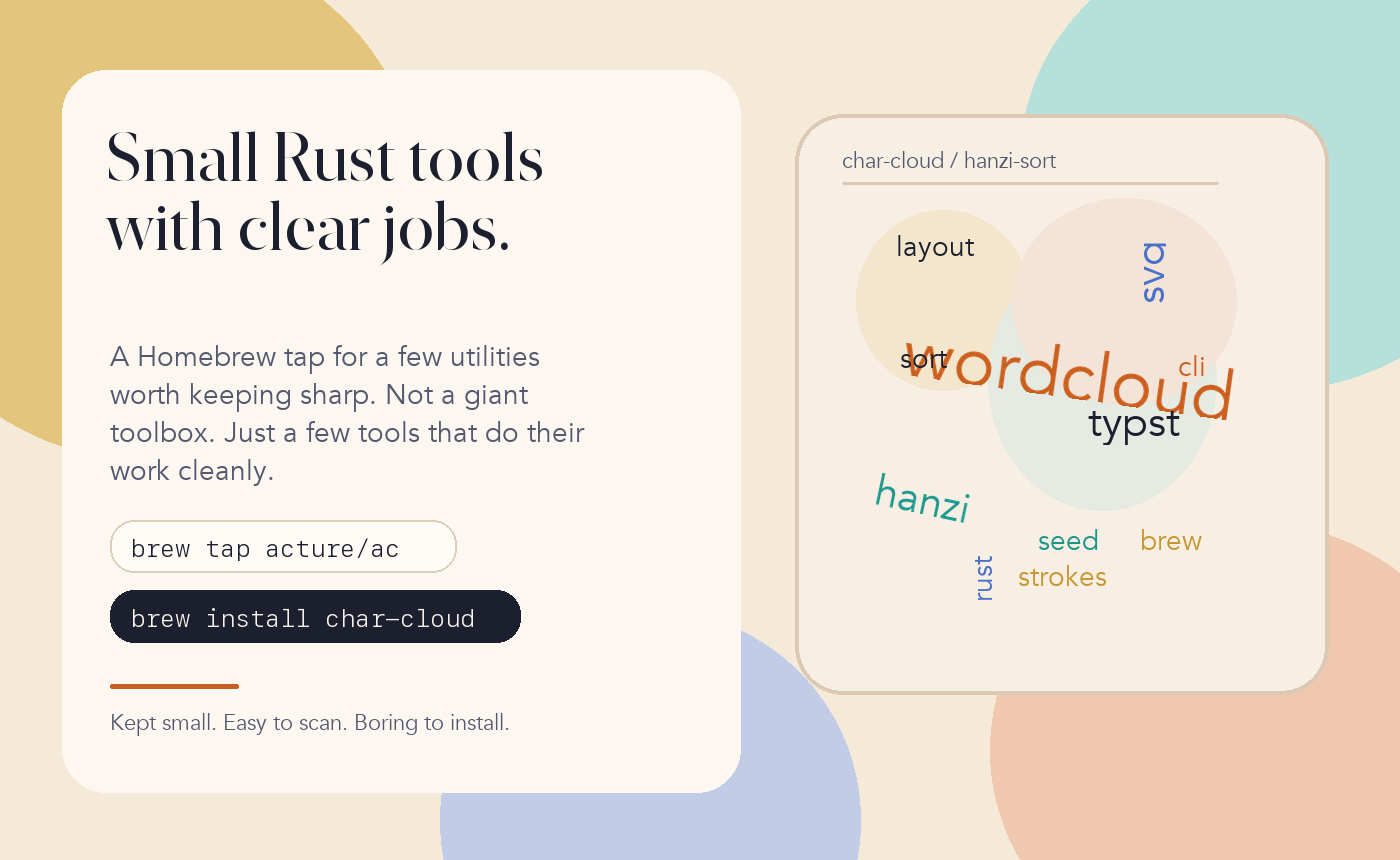
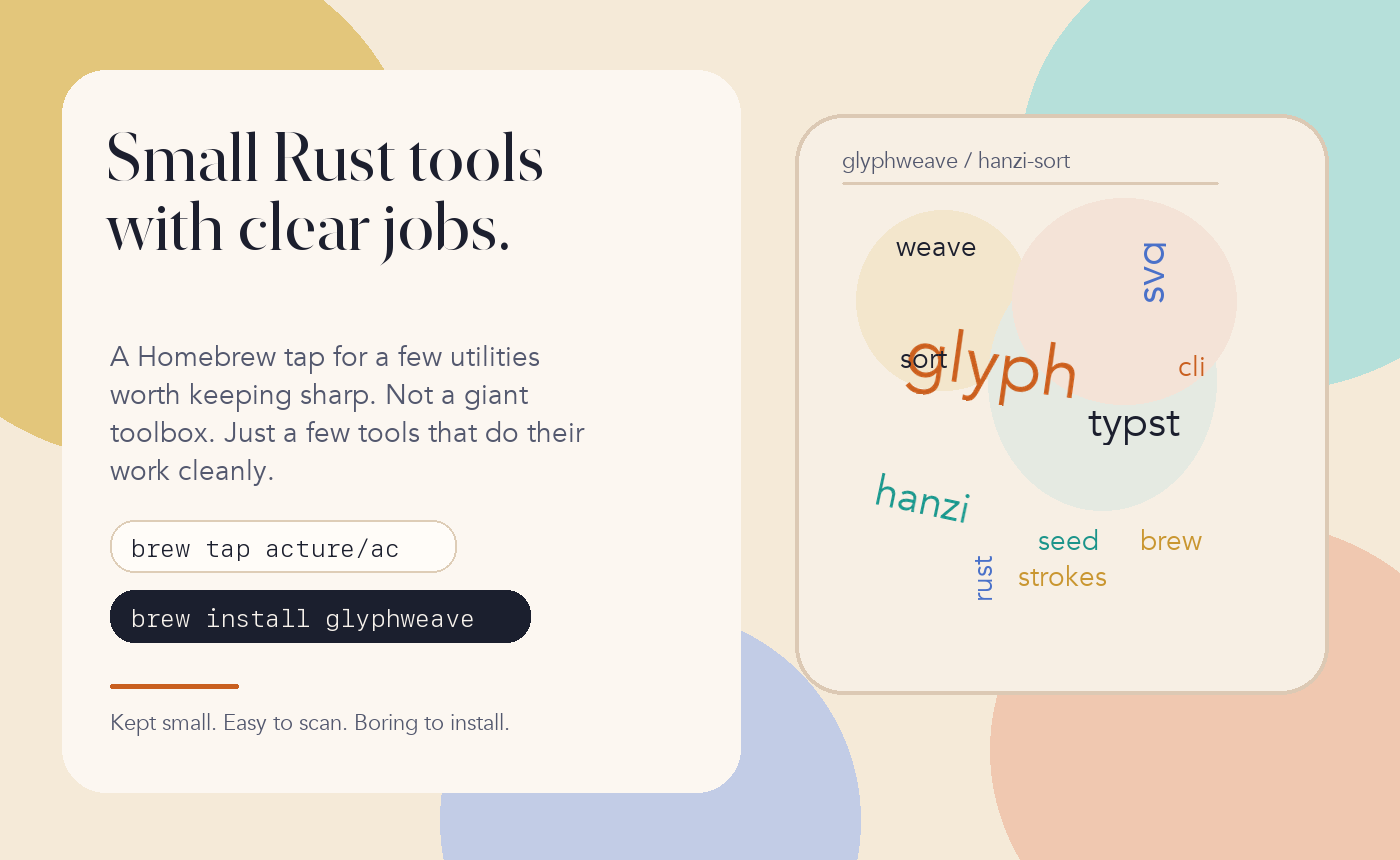
feat: rename char-cloud formula to glyphweave

diff --git a/scripts/render_social_preview.py b/scripts/render_social_preview.py
@@ -136,13 +136,13 @@ def make_hero_preview() -> Path:
     draw.rounded_rectangle((110, 520, 456, 572), radius=24, fill=(255, 252, 248, 235), outline=(222, 205, 183, 255), width=2)
     draw.text((130, 532), "brew tap acture/ac", font=mono_font, fill=ink)
 
-    draw.rounded_rectangle((110, 590, 520, 642), radius=24, fill=(27, 31, 46), outline=(27, 31, 46))
-    draw.text((130, 602), "brew install char-cloud", font=mono_font, fill=(247, 242, 236))
+    draw.rounded_rectangle((110, 590, 530, 642), radius=24, fill=(27, 31, 46), outline=(27, 31, 46))
+    draw.text((130, 602), "brew install glyphweave", font=mono_font, fill=(247, 242, 236))
 
     draw.rounded_rectangle((110, 684, 238, 688), radius=2, fill=orange)
     draw.text((110, 708), "Kept small. Easy to scan. Boring to install.", font=body_font, fill=muted)
 
-    draw.text((842, 146), "char-cloud / hanzi-sort", font=label_font, fill=muted)
+    draw.text((842, 146), "glyphweave / hanzi-sort", font=label_font, fill=muted)
     draw.rounded_rectangle((842, 182, 1218, 184), radius=1, fill=(220, 201, 180, 255))
 
     cloud = Image.new("RGBA", img.size, (0, 0, 0, 0))
@@ -152,9 +152,9 @@ def make_hero_preview() -> Path:
     cloud_draw.ellipse((1012, 198, 1236, 404), fill=(242, 216, 203, 130))
     img.alpha_composite(cloud)
 
-    draw_rotated_word(img, "wordcloud", (892, 302), word_large, orange + (255,), -8)
+    draw_rotated_word(img, "glyph", (892, 302), word_large, orange + (255,), -8)
     draw_rotated_word(img, "svg", (1120, 232), word_med, sky + (255,), 90)
-    draw_rotated_word(img, "layout", (888, 226), word_small, ink + (255,), 0)
+    draw_rotated_word(img, "weave", (888, 226), word_small, ink + (255,), 0)
     draw_rotated_word(img, "seed", (1030, 520), word_small, teal + (255,), 0)
     draw_rotated_word(img, "cli", (1170, 346), word_small, orange + (255,), 0)
     draw_rotated_word(img, "typst", (1080, 392), word_med, ink + (255,), 0)
@@ -204,7 +204,7 @@ def make_social_preview() -> Path:
     draw.rounded_rectangle((92, 446, 408, 494), radius=22, fill=(255, 251, 246, 225), outline=(223, 206, 185, 255), width=2)
     draw.text((112, 458), "brew tap acture/ac", font=mono_font, fill=ink)
 
-    draw.text((784, 122), "char-cloud / hanzi-sort", font=label_font, fill=muted)
+    draw.text((784, 122), "glyphweave / hanzi-sort", font=label_font, fill=muted)
     draw.rounded_rectangle((784, 156, 1138, 158), radius=1, fill=(217, 196, 171, 255))
 
     cloud = Image.new("RGBA", img.size, (0, 0, 0, 0))
@@ -214,8 +214,9 @@ def make_social_preview() -> Path:
     cloud_draw.ellipse((976, 184, 1184, 392), fill=(239, 214, 201, 128))
     img.alpha_composite(cloud)
 
-    draw_rotated_word(img, "wordcloud", (846, 262), word_large, orange + (255,), -8)
+    draw_rotated_word(img, "glyph", (846, 262), word_large, orange + (255,), -8)
     draw_rotated_word(img, "svg", (1035, 200), word_med, sky + (255,), 90)
+    draw_rotated_word(img, "weave", (980, 330), word_small, ink + (255,), 0)
     draw_rotated_word(img, "hanzi", (836, 372), word_med, teal + (255,), -13)
     draw_rotated_word(img, "typst", (1026, 332), word_med, ink + (255,), 0)
     draw_rotated_word(img, "strokes", (1032, 476), word_small, gold + (255,), 0)

diff --git a/Formula/glyphweave.rb b/Formula/glyphweave.rb
@@ -1,8 +1,8 @@
-class CharCloud < Formula
-  desc "Generate dense SVG word clouds that fit a target shape"
-  homepage "https://github.com/Acture/char-cloud"
-  url "https://github.com/Acture/char-cloud/archive/refs/tags/v0.2.0.tar.gz"
[1 lines of base64/hex data omitted]
+class Glyphweave < Formula
+  desc "Generate shape-constrained SVG word clouds"
+  homepage "https://github.com/Acture/glyphweave"
+  url "https://github.com/Acture/glyphweave/archive/refs/tags/v0.2.0.tar.gz"
[1 lines of base64/hex data omitted]
   license "AGPL-3.0-only"
 
   livecheck do
@@ -14,6 +14,12 @@ class CharCloud < Formula
 
   def install
     system "cargo", "install", *std_cargo_args
+
+    legacy_binary = bin/"char-cloud"
+    # v0.2.0 still installs the old executable name from the tagged source.
+    if legacy_binary.exist? && !(bin/"glyphweave").exist?
+      legacy_binary.rename bin/"glyphweave"
+    end
   end
 
   test do
@@ -25,12 +31,12 @@ class CharCloud < Formula
       "/usr/share/fonts/opentype/noto/NotoSansSC-Regular.otf",
       "/usr/share/fonts/truetype/dejavu/DejaVuSans.ttf",
     ].find { |path| File.exist?(path) }
-    assert font, "No suitable system font found for char-cloud test"
+    assert font, "No suitable system font found for glyphweave test"
 
     (testpath/"words.txt").write("cloud,3\nsvg,2\nlayout\n")
     output = testpath/"out.svg"
 
-    system bin/"char-cloud", "--text", "AI",
+    system bin/"glyphweave", "--text", "AI",
                               "--word-file", testpath/"words.txt",
                               "--algorithm", "fast-grid",
                               "--seed", "7",

diff --git a/README.md b/README.md
@@ -16,24 +16,24 @@
 
 ```bash
 brew tap acture/ac
-brew install char-cloud
+brew install glyphweave
 ```
 
 Direct installs also work: `brew install acture/ac/<formula>`.
 
 ## What's in this tap
 
-### `char-cloud`
+### `glyphweave`
 
 Shape-aware SVG word clouds for reports, demos, and other places where plain text should end up as something inspectable.
 
-![char-cloud preview](assets/char-cloud-preview.svg)
+![glyphweave preview](assets/glyphweave-preview.svg)
 
-Install: `brew install char-cloud`  
-Upstream: [Acture/char-cloud](https://github.com/Acture/char-cloud)
+Install: `brew install glyphweave`  
+Upstream: [Acture/glyphweave](https://github.com/Acture/glyphweave)
 
 ```bash
-char-cloud \
+glyphweave \
   --text "ACTURE" \
   --word-file words.txt \
   --algorithm fast-grid \
